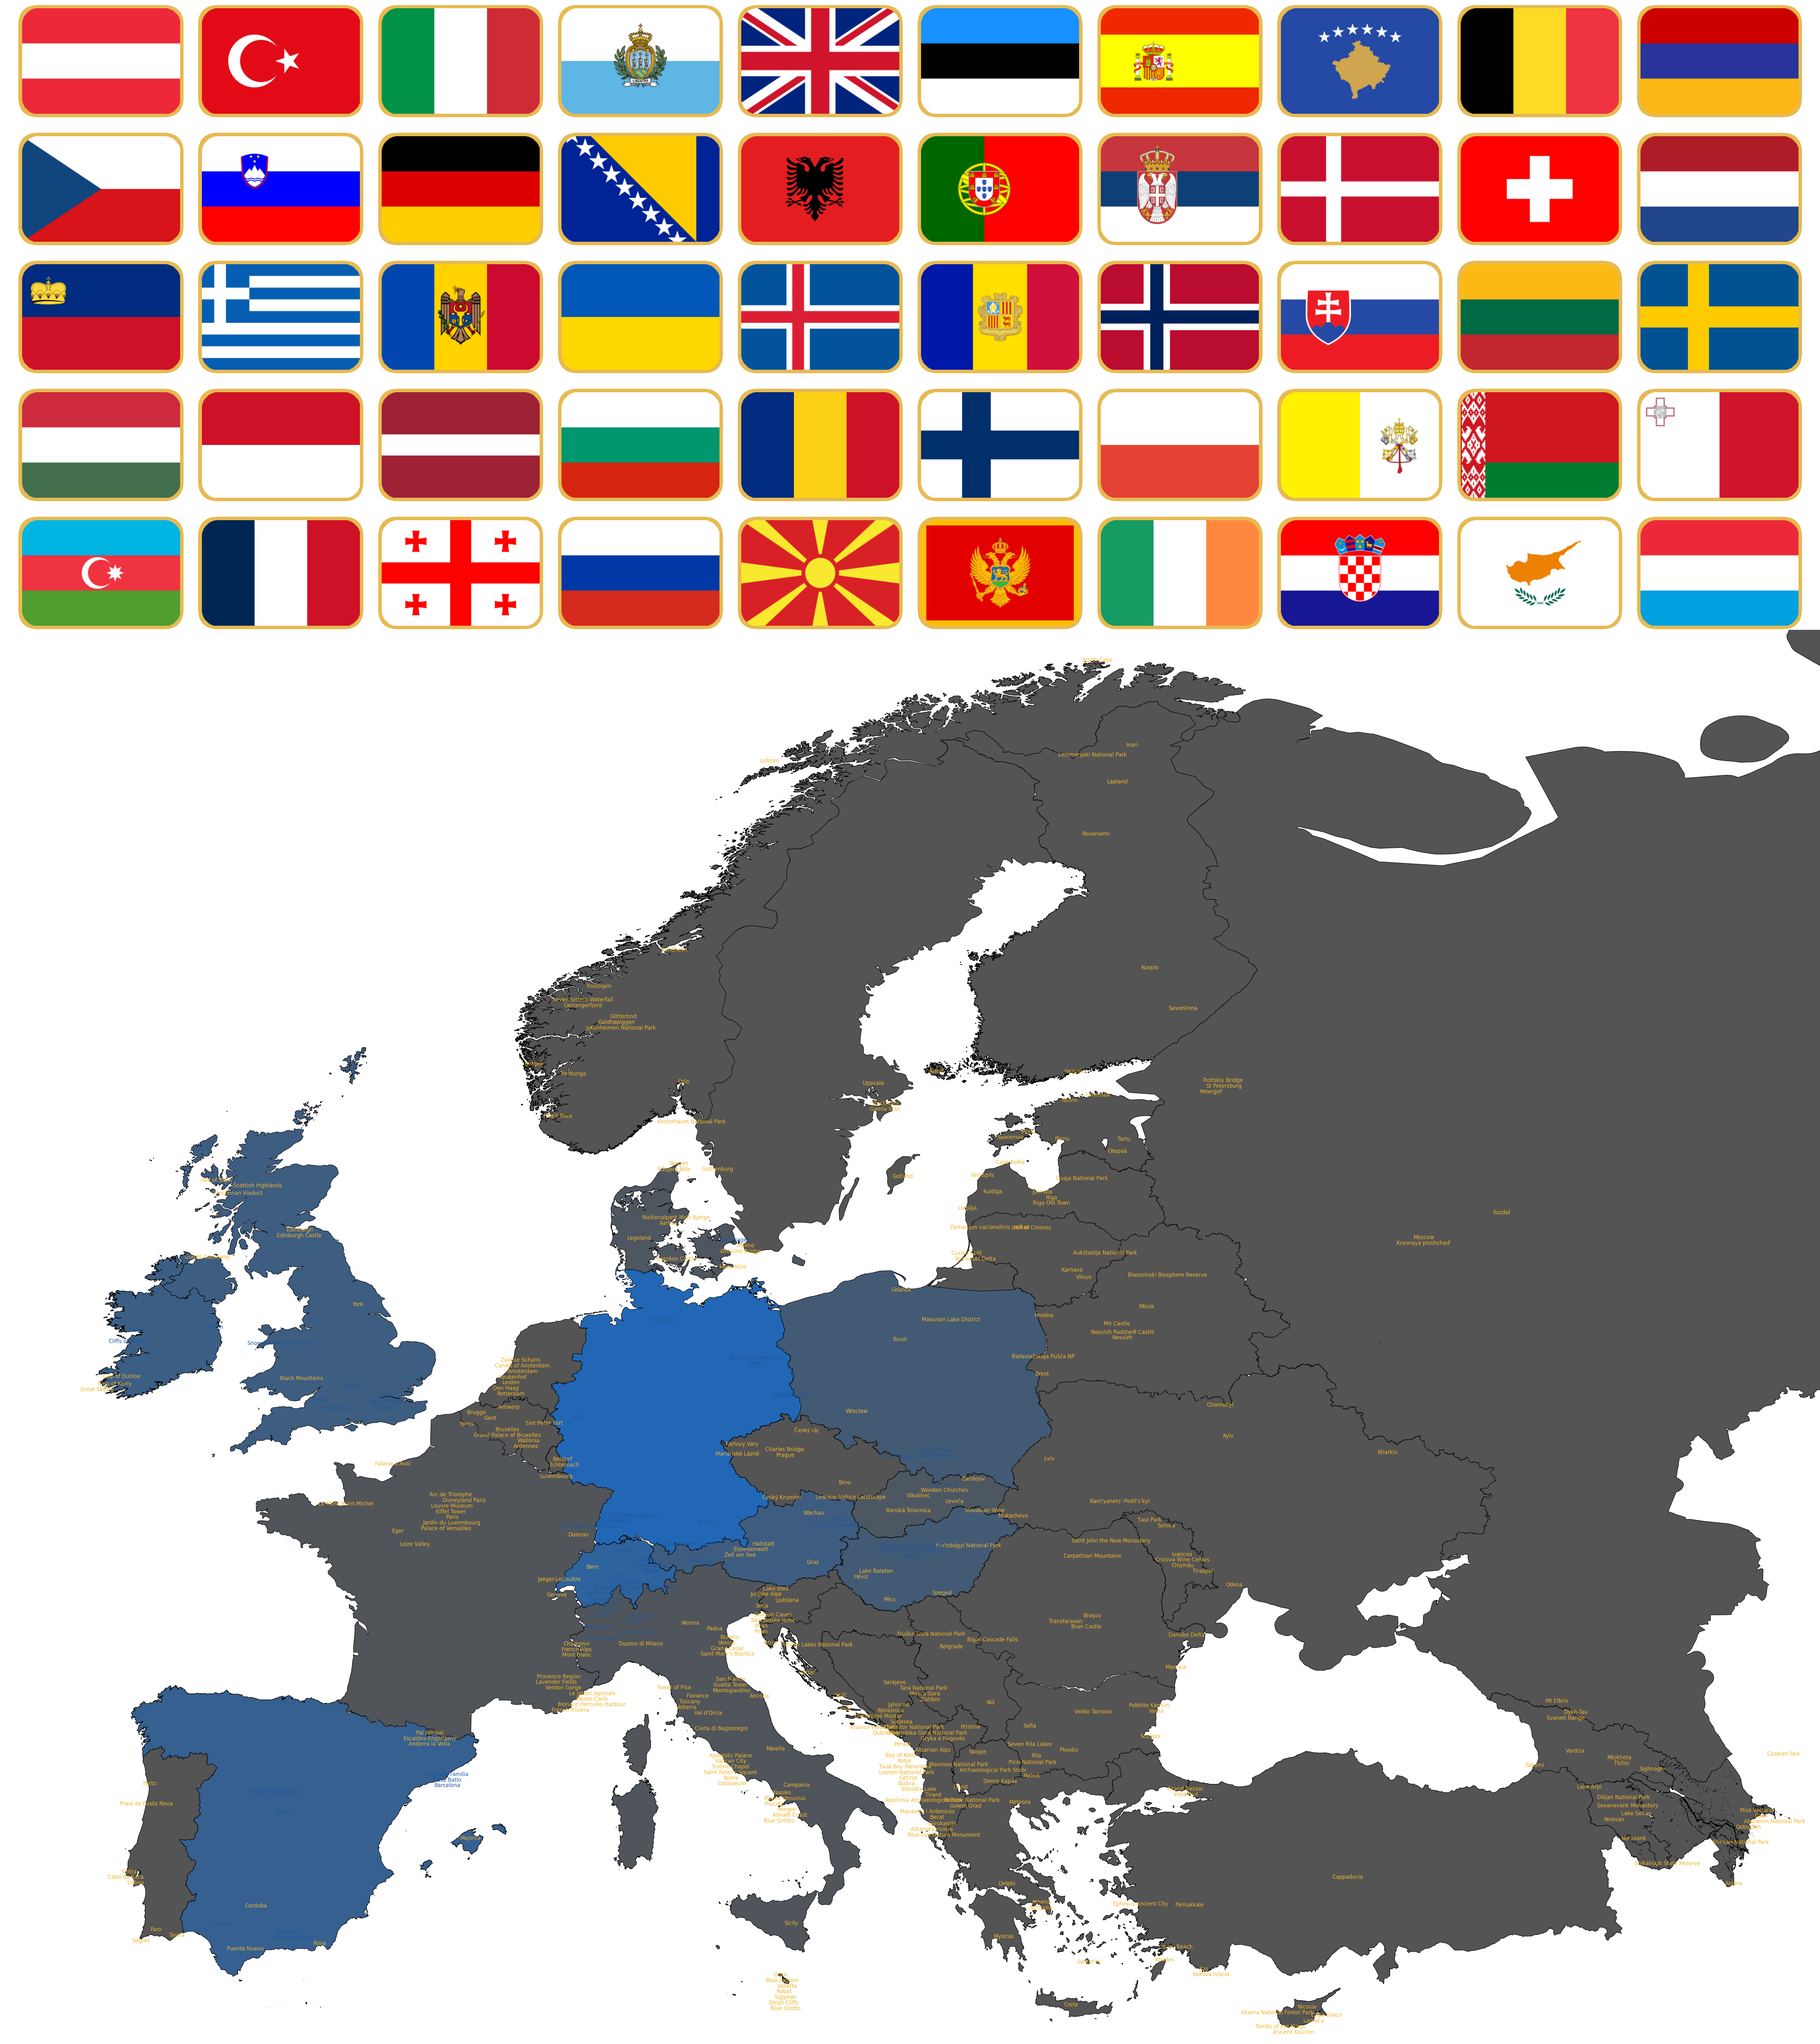
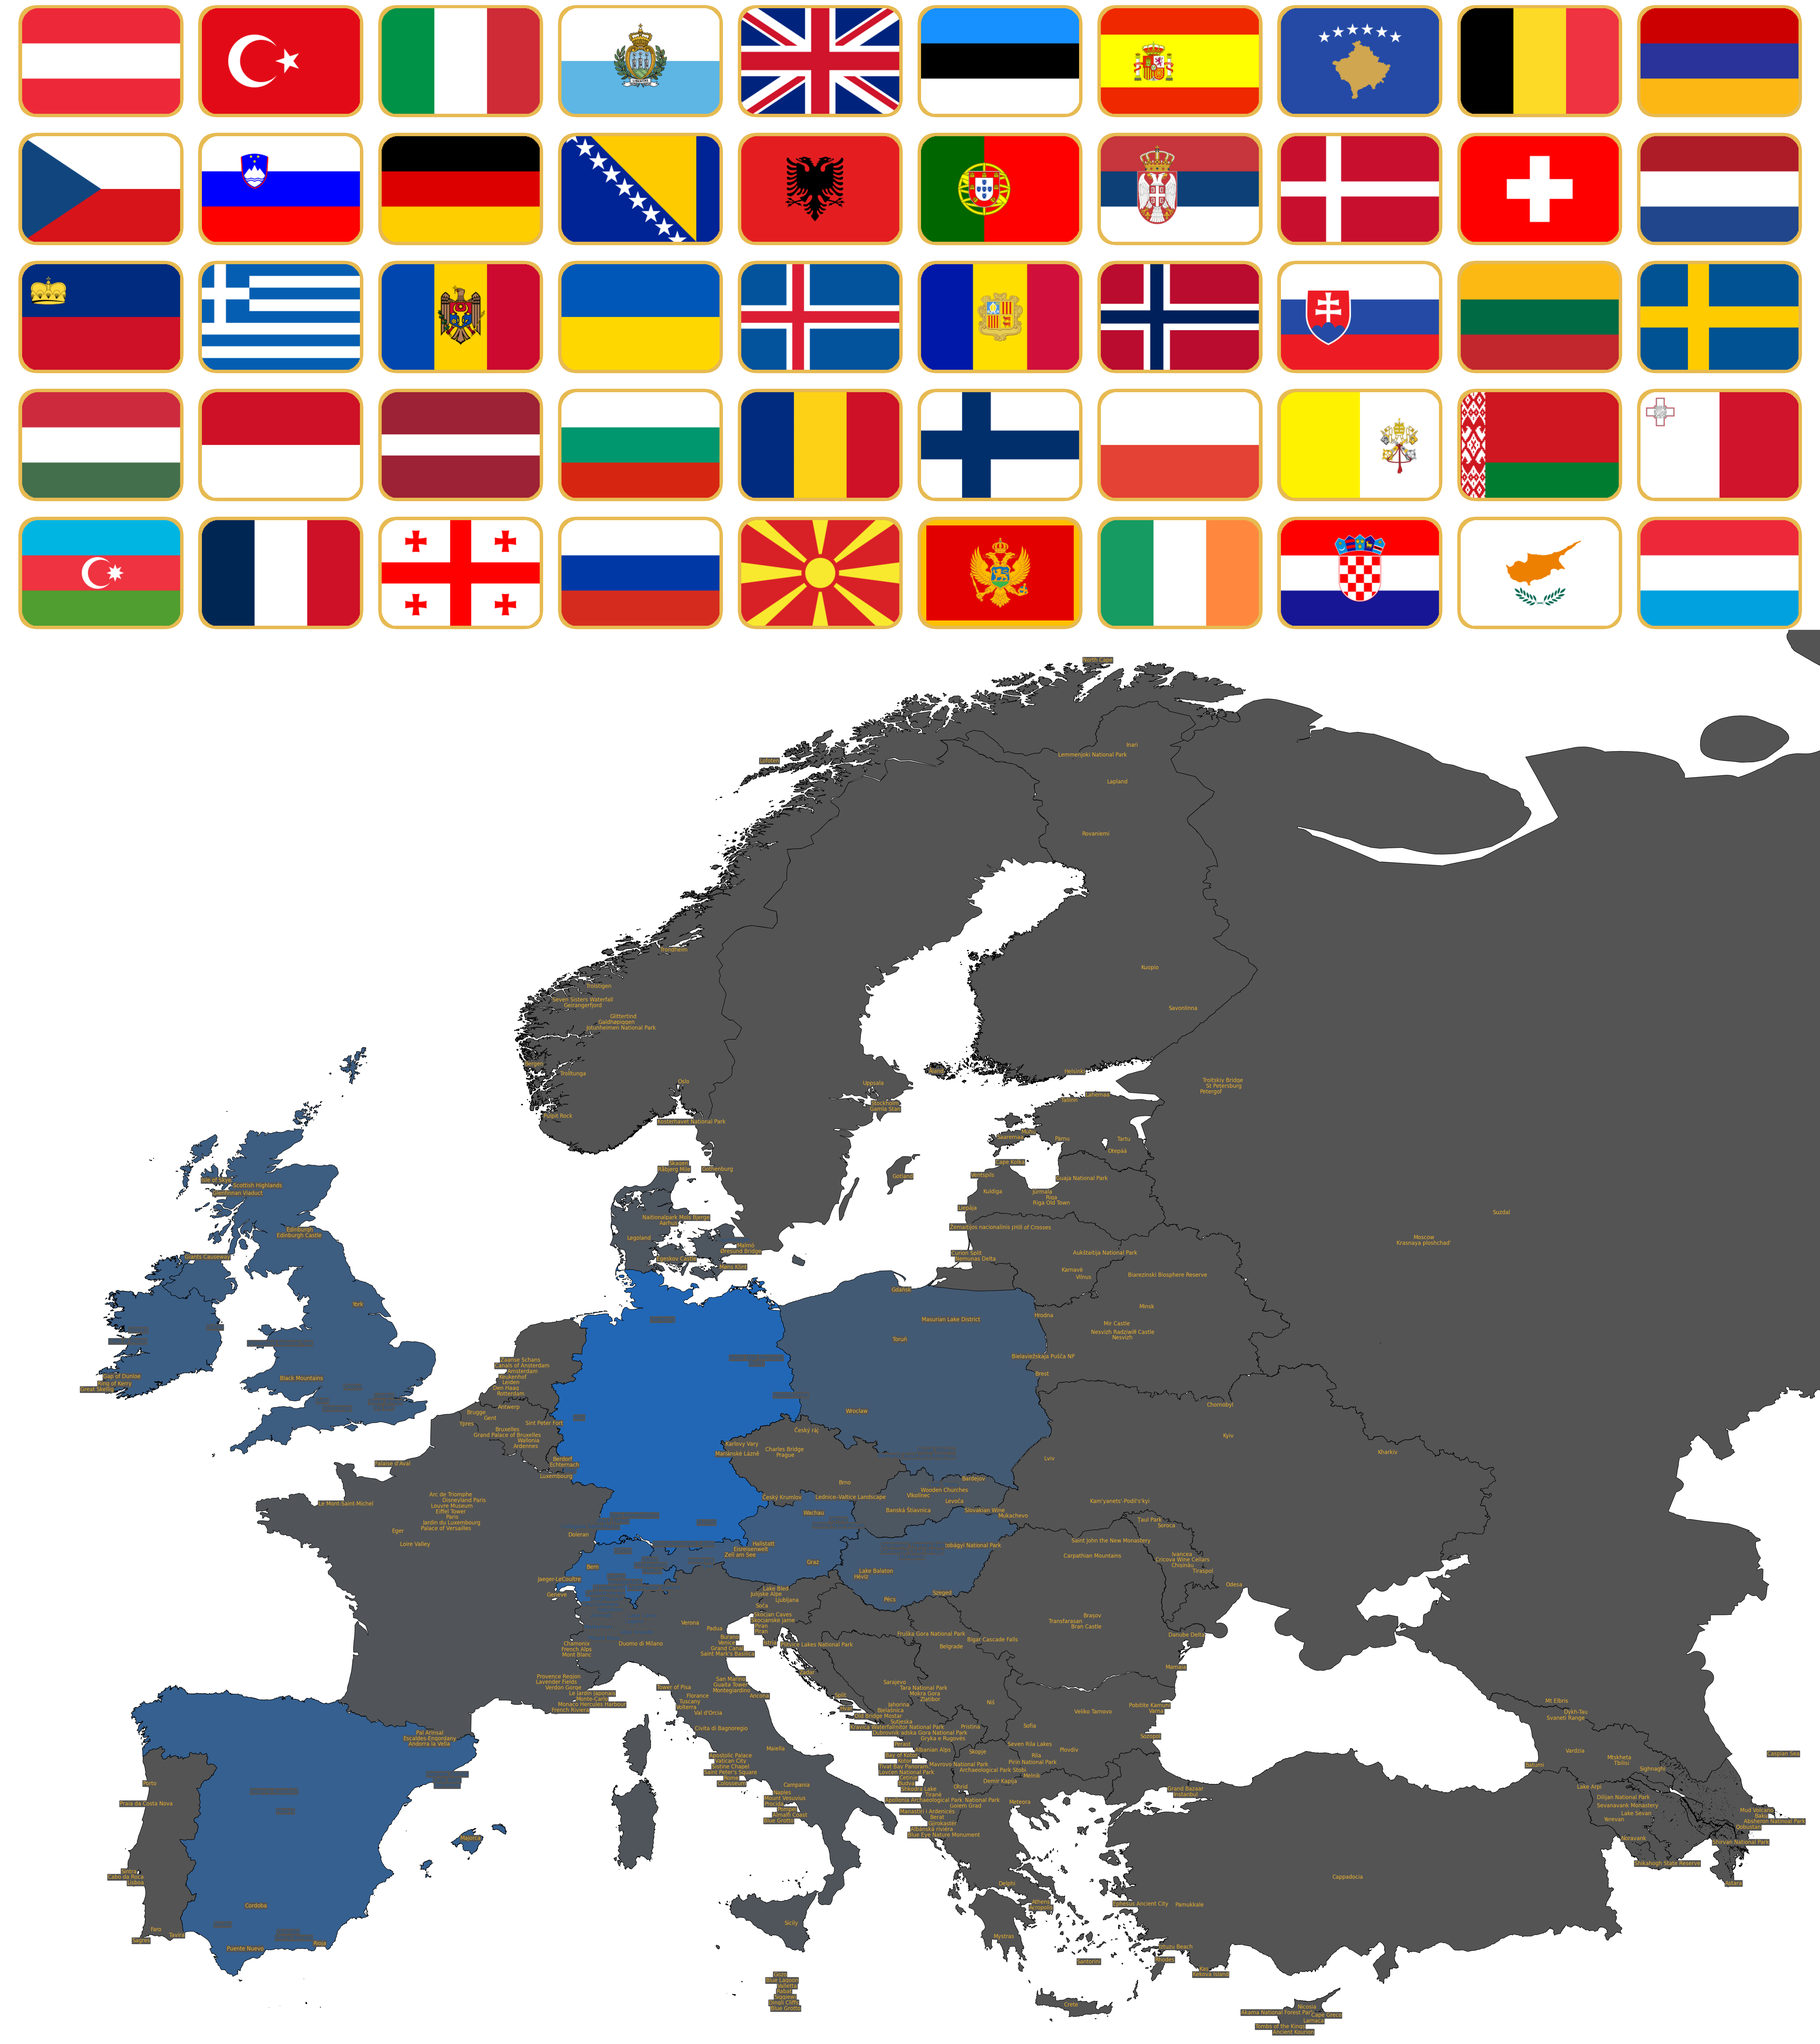
update eu map

diff --git a/main.py b/main.py
@@ -10,7 +10,7 @@ from utils.file_utils import ensure_directory_exists
 
 
 # Set global variables, directories for map creation and site locations
-SCALE = 5
+SCALE = 6
 
 # US National Park Global Variables
 #PATH = "us"
@@ -19,10 +19,10 @@ SCALE = 5
 #PATH = "de"
 
 # Europe Global Variables
-#PATH = "eu"
+PATH = "eu"
 
 # Iran Global Variables
-PATH = "ir"
+#PATH = "ir"
 
 # Ensure output folders exist
 ensure_directory_exists("plots/temp")
